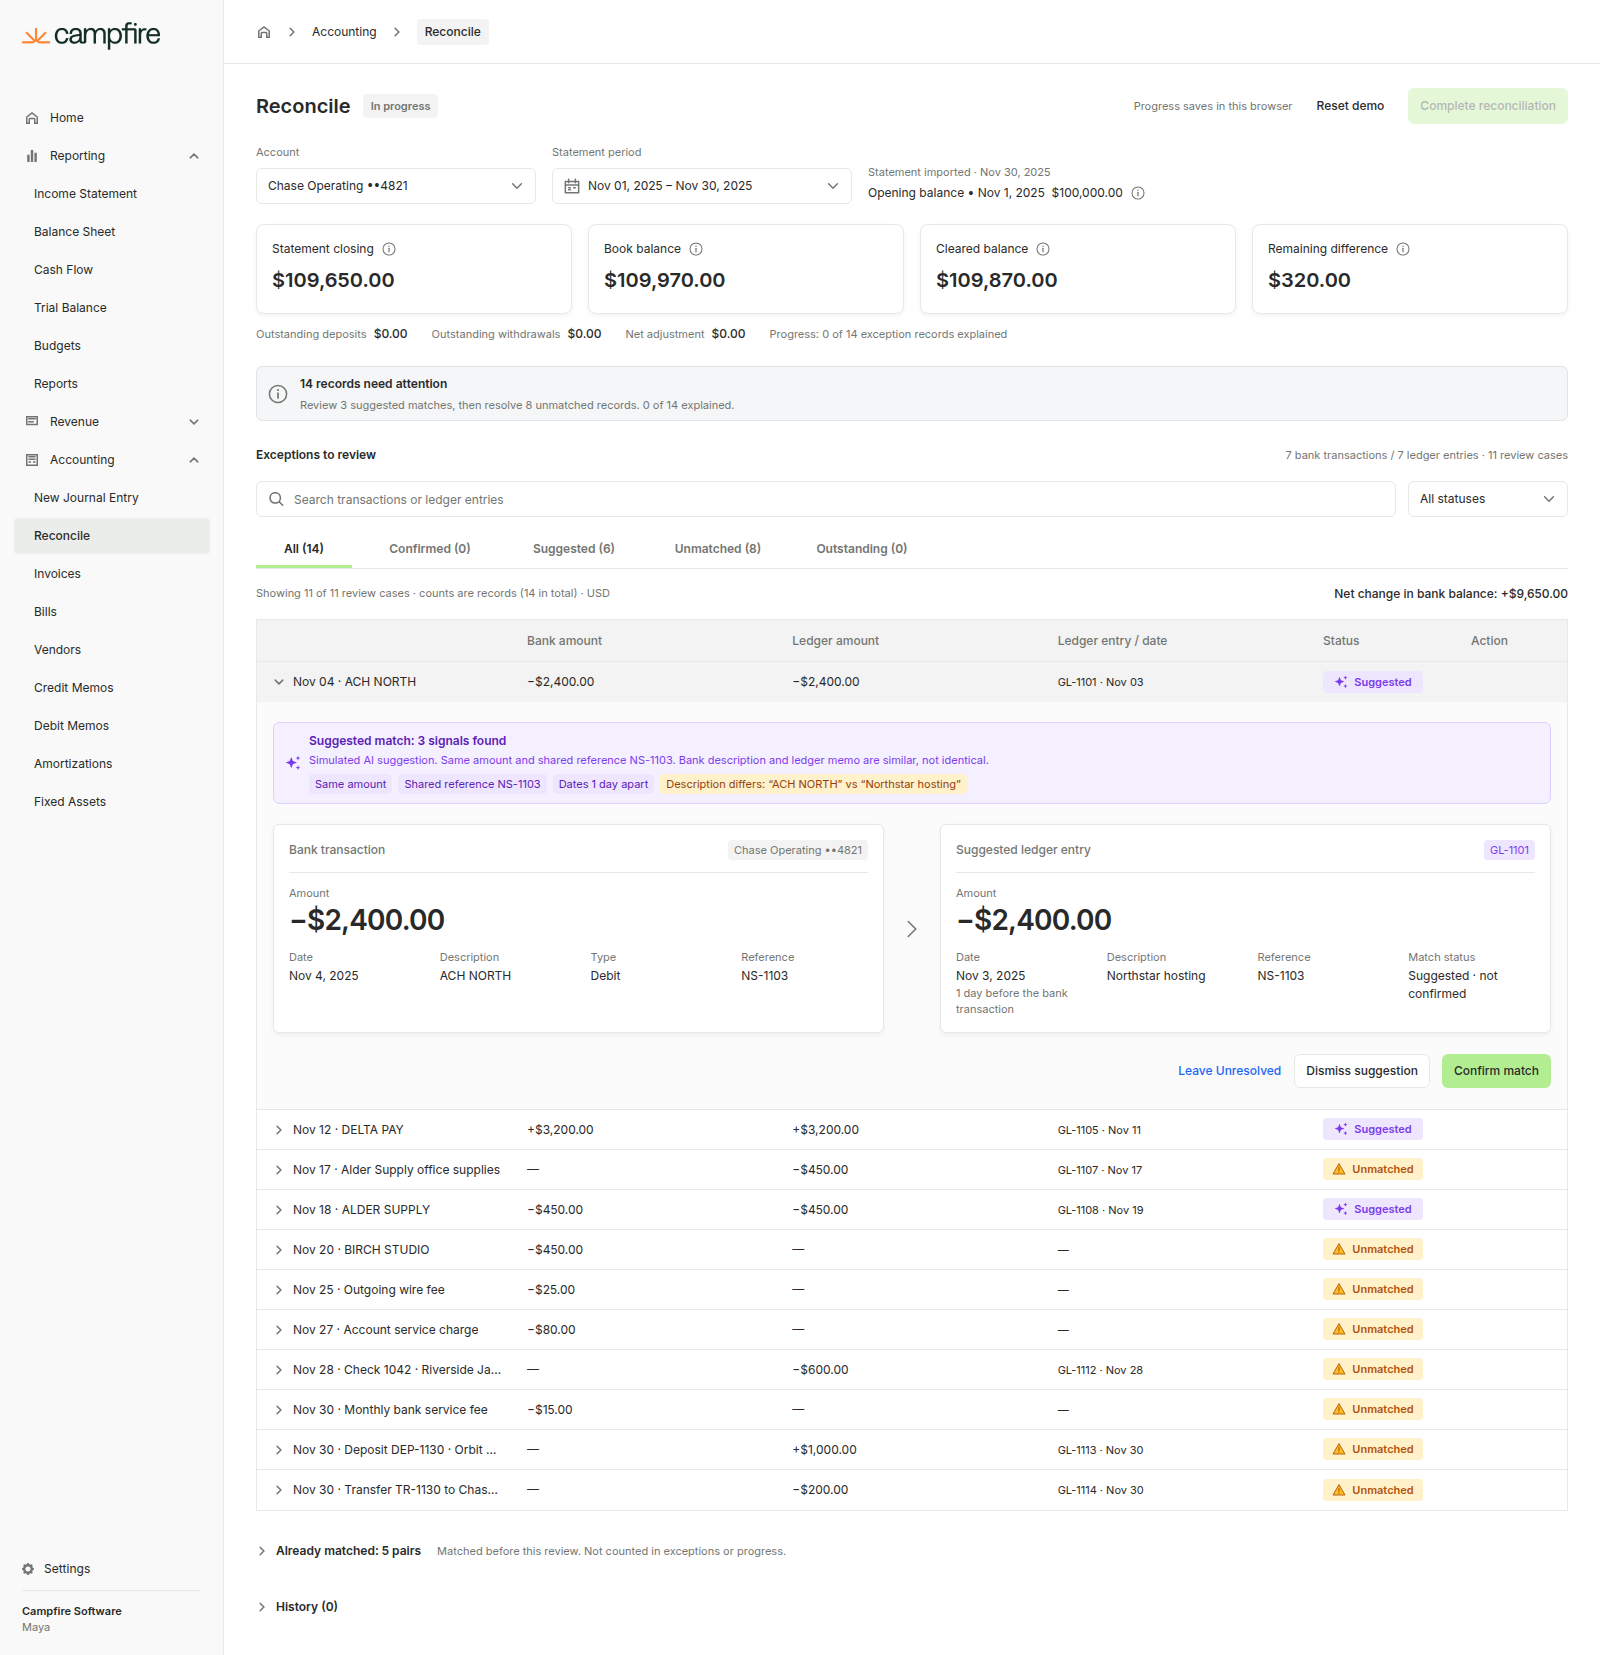
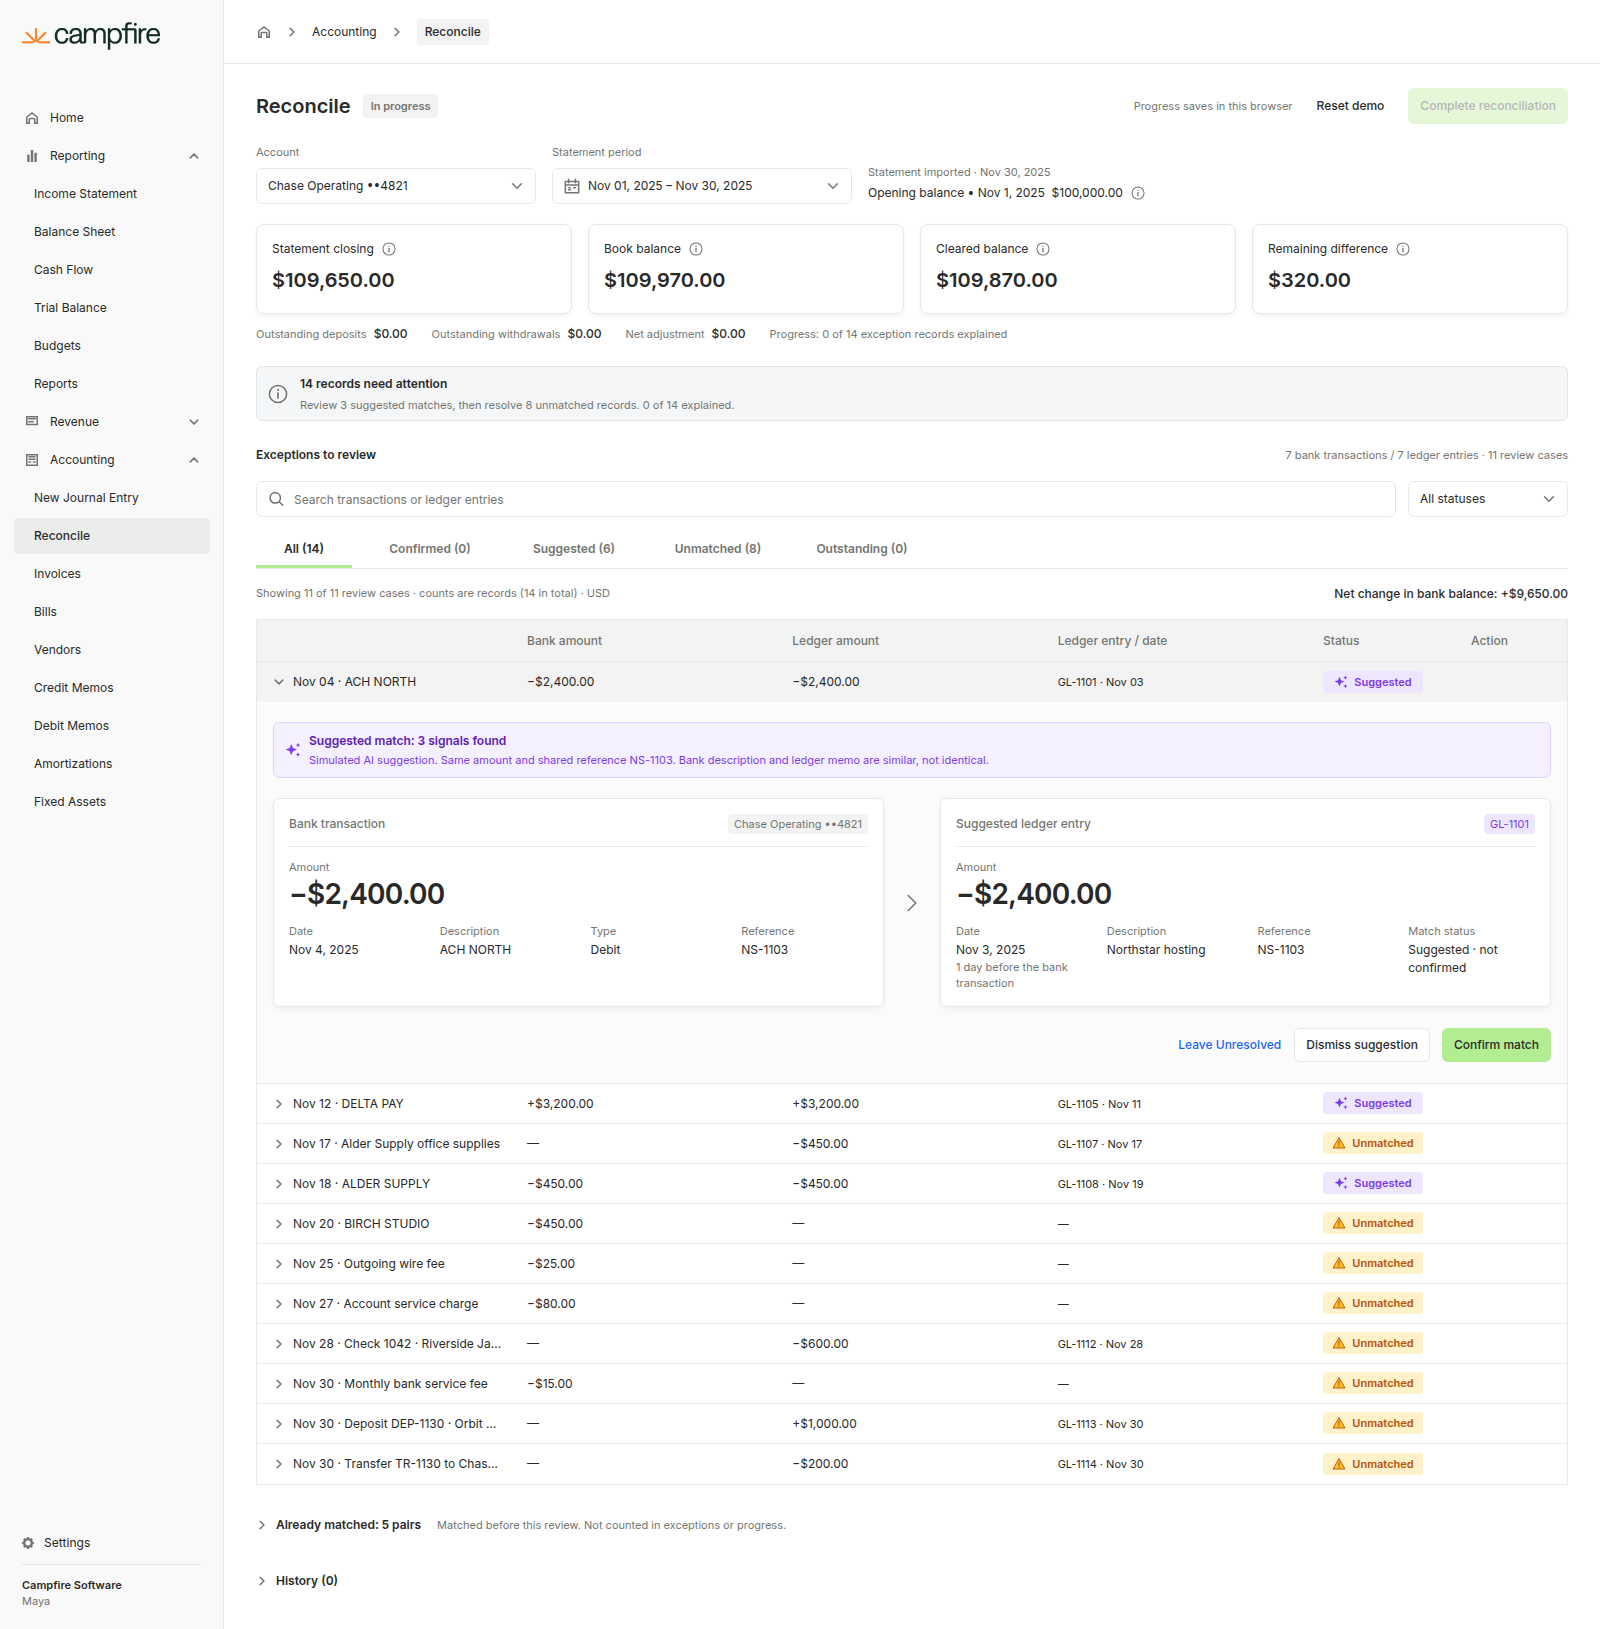
Remove the signal badges from suggested-match notices
They repeated what the notice text and the two record cards already show
(Yirang's review comment on the preview).

Claude-Session: https://claude.ai/code/session_01SjmuwsjrTUXEVeGEdoK4rk

diff --git a/src/showcase/flags.ts b/src/showcase/flags.ts
@@ -36,7 +36,7 @@ export const UNDOCUMENTED = [
   'Minimum width of the allocation table before it scrolls (960 px).',
   'Child labels for nav groups that are collapsed in Figma (Financial Statements, Accounting and Cash Management on the dashboard panel) are sample labels.',
   'Negative or neutral trend badges are not documented and are not built.',
-  'Reconcile design additions (PRD "Design addition"; no Figma frame): the Outstanding pill and tab, the outstanding-item form with December evidence, search keyword suggestions, removable filter chips and empty results, the leave-unresolved note, the separate-expense acknowledgement, signal chips in the AI notice, the "Created" chip on generated entries, the history panel, the save-failure notice, the blocked-completion notice, Reopen, the unreadable-data recovery screen and the demo reset dialog. All reuse existing tokens and components; none adds a color.',
+  'Reconcile design additions (PRD "Design addition"; no Figma frame): the Outstanding pill and tab, the outstanding-item form with December evidence, search keyword suggestions, removable filter chips and empty results, the leave-unresolved note, the separate-expense acknowledgement, the "Created" chip on generated entries, the history panel, the save-failure notice, the blocked-completion notice, Reopen, the unreadable-data recovery screen and the demo reset dialog. All reuse existing tokens and components; none adds a color.',
   'Field and dropdown error state: warning-ink border with an 11/16 warning-ink message under the field. Figma has no error state, so no new color is introduced.',
   'Ledger-only cases (outstanding checks, deposits and transfers) open with the ledger entry on the left and the search or outstanding form on the right, mirroring the bank-side layout.',
   'Undo scope. The Undo link and the history panel undo accounting actions (match, create and match, outstanding) in reverse order. A dismissed suggestion is restored from its own compact notice, as Figma draws it (38:6668), and a note left on an unresolved record is simply edited.',

diff --git a/prototype/src/ui/Detail.module.css b/prototype/src/ui/Detail.module.css
@@ -168,31 +168,6 @@
   height: 20px;
 }
 
-/* Signals in the AI rationale (design addition): 11/16 chips in the AI or warning tint. */
-.signals {
-  display: flex;
-  flex-wrap: wrap;
-  gap: var(--spacing-6);
-  margin: var(--spacing-6) 0 0;
-  padding: 0;
-  list-style: none;
-}
-
-.signal,
-.signalDiffers {
-  padding: 0 var(--spacing-6);
-  border-radius: var(--radius-4);
-  background: var(--color-ai-pill);
-  color: var(--color-ai-ink-strong);
-  font-size: var(--text-caption-size);
-  line-height: var(--text-caption-line-loose);
-}
-
-.signalDiffers {
-  background: var(--color-warning-pill);
-  color: var(--color-warning-ink-strong);
-}
-
 /* Create ledger entry rows (38:7860, 38:7870): 206 / 150 / 200 and 180 / 388, 12 px gaps. */
 .formRowTop,
 .formRowBottom,

diff --git a/prototype/src/ui/CaseDetail.tsx b/prototype/src/ui/CaseDetail.tsx
@@ -212,13 +212,6 @@ export function CaseDetail({ recon, reviewCase: c, onCollapse, announce }: CaseD
     notices.push(
       <Notice key="ai" tone="ai" title={c.suggestion.headline}>
         <p>Simulated AI suggestion. {c.suggestion.detail}</p>
-        <ul className={styles.signals} aria-label="Signals">
-          {c.suggestion.signals.map((signal) => (
-            <li key={signal.label} className={signal.tone === 'match' ? styles.signal : styles.signalDiffers}>
-              {signal.label}
-            </li>
-          ))}
-        </ul>
       </Notice>,
     )
   } else if (showDismissed && dismissed) {

diff --git a/prototype/README.md b/prototype/README.md
@@ -19,8 +19,8 @@ Progress is saved in this browser's localStorage (`campfire.reconciliation.chase
 
 Start from a reset. The page opens with a $320.00 difference, 14 exception records in 11 review cases, and the 5 already-matched pairs in their own section under the register.
 
-1. **Confirm a suggestion.** Expand *Nov 04 · ACH NORTH*. The AI notice lists the signals (same amount, shared reference, dates 1 day apart, description differs). Choose **Confirm match**. Cleared balance moves; book balance doesn't. An **Undo** link appears in the row's Action column.
-2. **Spot a wrong suggestion and dismiss it.** Expand *Nov 18 · ALDER SUPPLY*. The suggestion points at Birch Studio (GL-1108) and its signals show the reference and counterparty differ. Choose **Dismiss suggestion**. A compact notice says the suggestion was dismissed, with Undo, and both records become Unmatched. Nothing changes in the balances.
+1. **Confirm a suggestion.** Expand *Nov 04 · ACH NORTH*. The AI notice explains the suggestion, and the two cards show the amounts, dates, references and the 1-day date difference. Choose **Confirm match**. Cleared balance moves; book balance doesn't. An **Undo** link appears in the row's Action column.
+2. **Spot a wrong suggestion and dismiss it.** Expand *Nov 18 · ALDER SUPPLY*. The suggestion points at Birch Studio (GL-1108) and the notice says the reference and counterparty differ. Choose **Dismiss suggestion**. A compact notice says the suggestion was dismissed, with Undo, and both records become Unmatched. Nothing changes in the balances.
 3. **Search for the right entry.** In the same row, type `alder` (or pick a keyword suggestion), use the arrow keys and Enter to pick GL-1107, then **Confirm match**. Only entries with the same signed amount, currency and account are listed. Try a date or counterparty filter, then clear it. Do the same for *BIRCH STUDIO* with GL-1108.
 4. **Create a missing expense.** Expand *Nov 30 · Monthly bank service fee* and choose **Create entry…**. Submit without a category to see field errors (focus moves to the first one). Pick *Bank Fees* and **Create and match**. GL-1115 is created and matched; book balance drops by $15.00. Repeat for the wire fee (GL-1116) and the account service charge (GL-1117).
 5. **Document outstanding items.** Expand *Check 1042 · Riverside Janitorial*. Choose *Outstanding check* and, as evidence, the unrelated *CHECK 1047 PAID*: the claim is rejected and the entry stays unresolved. Pick *CHECK 1042 PAID* (Dec 2), add an explanation and **Document as outstanding**. Repeat for the deposit DEP-1130 (deposit in transit, Dec 1) and the transfer TR-1130 (Dec 3). The outstanding line under the balance cards reaches +$1,000.00 / −$800.00 / net +$200.00.

diff --git a/docs/design-flags.md b/docs/design-flags.md
@@ -39,7 +39,7 @@ Conflicts in the Figma references, choices Figma does not document, accessibilit
 - Minimum width of the allocation table before it scrolls (960 px).
 - Child labels for nav groups that are collapsed in Figma (Financial Statements, Accounting and Cash Management on the dashboard panel) are sample labels.
 - Negative or neutral trend badges are not documented and are not built.
-- Reconcile design additions (PRD "Design addition"; no Figma frame): the Outstanding pill and tab, the outstanding-item form with December evidence, search keyword suggestions, removable filter chips and empty results, the leave-unresolved note, the separate-expense acknowledgement, signal chips in the AI notice, the "Created" chip on generated entries, the history panel, the save-failure notice, the blocked-completion notice, Reopen, the unreadable-data recovery screen and the demo reset dialog. All reuse existing tokens and components; none adds a color.
+- Reconcile design additions (PRD "Design addition"; no Figma frame): the Outstanding pill and tab, the outstanding-item form with December evidence, search keyword suggestions, removable filter chips and empty results, the leave-unresolved note, the separate-expense acknowledgement, the "Created" chip on generated entries, the history panel, the save-failure notice, the blocked-completion notice, Reopen, the unreadable-data recovery screen and the demo reset dialog. All reuse existing tokens and components; none adds a color.
 - Field and dropdown error state: warning-ink border with an 11/16 warning-ink message under the field. Figma has no error state, so no new color is introduced.
 - Ledger-only cases (outstanding checks, deposits and transfers) open with the ledger entry on the left and the search or outstanding form on the right, mirroring the bank-side layout.
 - Undo scope. The Undo link and the history panel undo accounting actions (match, create and match, outstanding) in reverse order. A dismissed suggestion is restored from its own compact notice, as Figma draws it (38:6668), and a note left on an unresolved record is simply edited.
